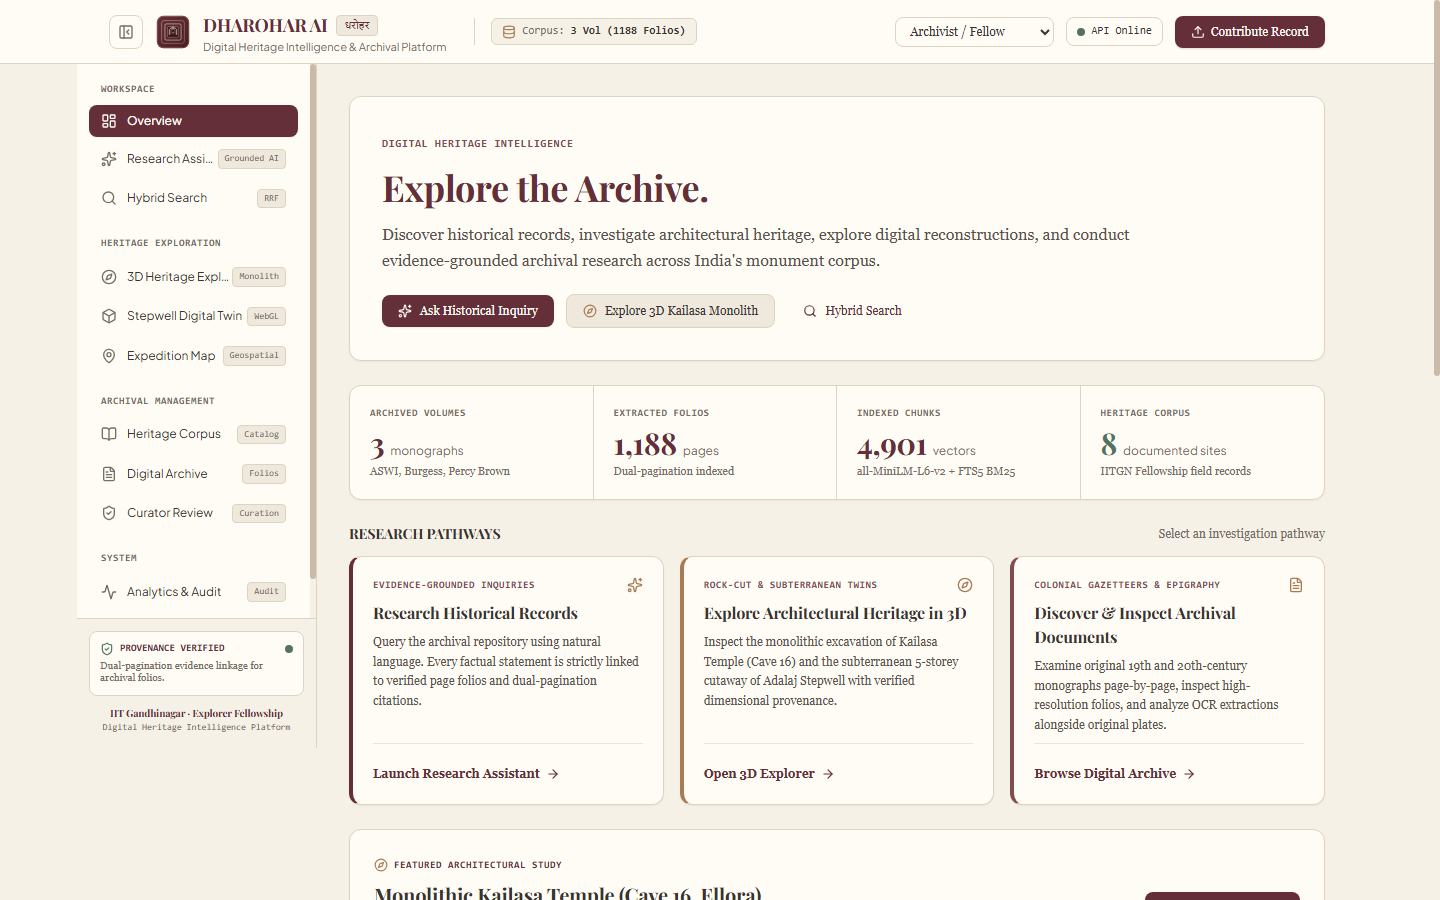
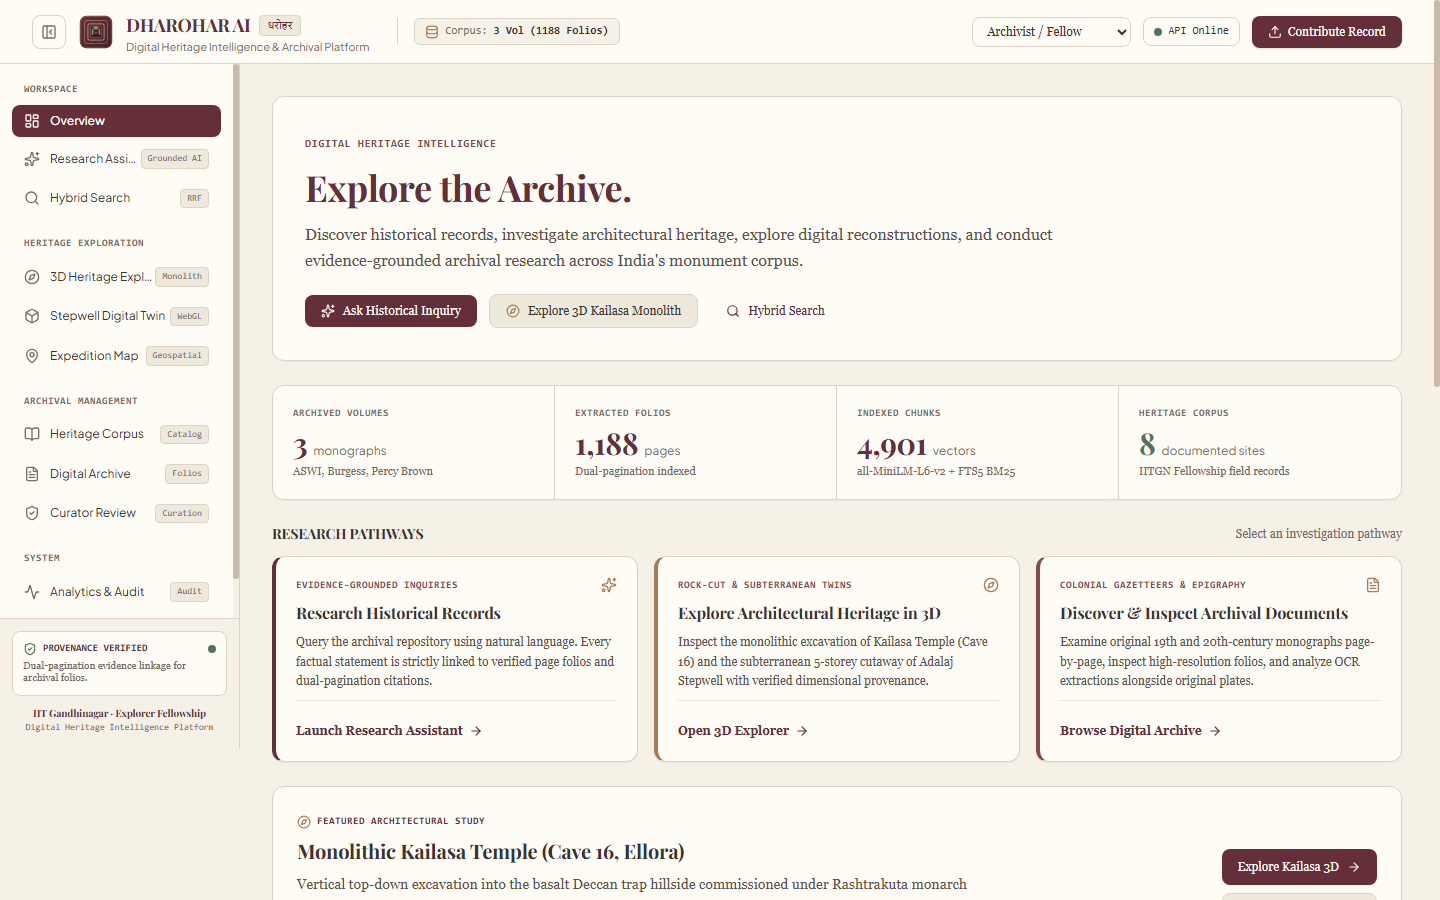
fix(layout): remove max-w-7xl constraint to dock sidebar flush to left edge

diff --git a/frontend/src/components/Header.tsx b/frontend/src/components/Header.tsx
@@ -53,8 +53,8 @@ export default function Header({
   const isConnected = healthState.status === 'connected';
 
   return (
-    <header className="sticky top-0 z-30 h-16 border-b border-[#DED3C2] bg-[#FFFCF5] transition-colors">
-      <div className="max-w-7xl mx-auto px-4 sm:px-6 lg:px-8 h-full flex items-center justify-between gap-4">
+    <header className="sticky top-0 z-30 h-16 border-b border-[#DED3C2] bg-[#FFFCF5] transition-colors w-full">
+      <div className="w-full px-4 sm:px-6 lg:px-8 h-full flex items-center justify-between gap-4">
         {/* Left: Sidebar Toggle + Brand Identity + Collection Indicator */}
         <div className="flex items-center gap-3">
           {/* Mobile Drawer Toggle */}

diff --git a/frontend/src/app/page.tsx b/frontend/src/app/page.tsx
@@ -306,7 +306,7 @@ export default function Home() {
       />
 
       {/* Main Container */}
-      <div className="flex-1 flex max-w-7xl w-full mx-auto">
+      <div className="flex-1 flex w-full">
         <Sidebar
           currentTab={currentTab}
           onSelectTab={(tab) => {
@@ -320,7 +320,7 @@ export default function Home() {
         />
 
         {/* Dynamic Content Views */}
-        <main className="flex-1 p-4 sm:p-6 lg:p-8 space-y-6 overflow-x-hidden">
+        <main className="flex-1 p-4 sm:p-6 lg:p-8 space-y-6 overflow-x-hidden min-w-0">
           {/* TAB 1: RESEARCH ASSISTANT (Milestone 5.3-5.6) */}
           {currentTab === 'assistant' && (
             <ResearchAssistantSection

diff --git a/reports/DHAROHAR_FINAL_UI_UX_TRANSFORMATION_REPORT.md b/reports/DHAROHAR_FINAL_UI_UX_TRANSFORMATION_REPORT.md
@@ -198,3 +198,4 @@ The following visual artifacts have been generated and archived:
 | Research Assistant Workspace | COMPLETE | Interactive dual-pagination citation pills & epistemological limitation notice |
 | Backend Retrieval & Data Integrity | PRESERVED | Sentence Transformers, SQLite FTS5 BM25, RRF ($k=60$), 131/131 tests passing |
 | Local Production Server | RUNNING | Active on `http://localhost:3000` |
+
